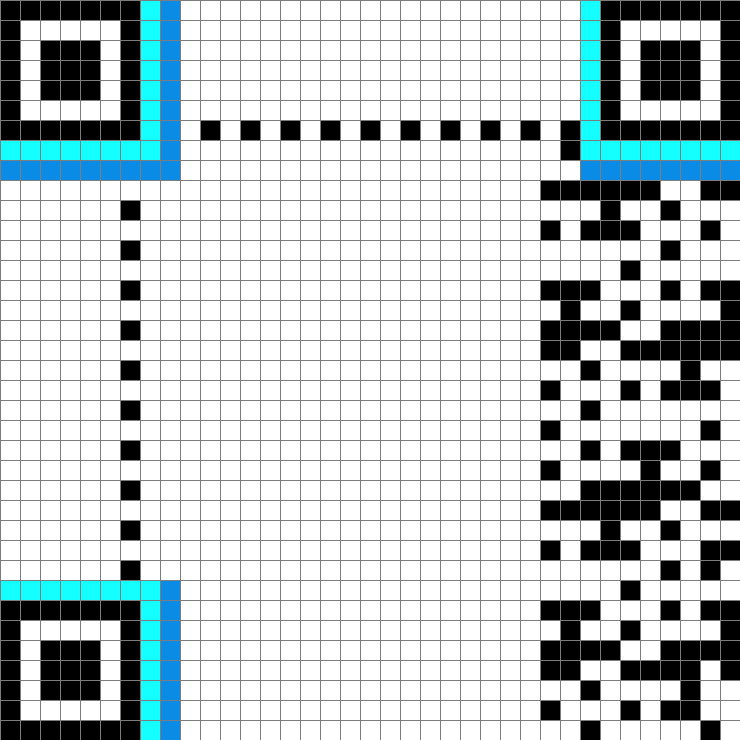
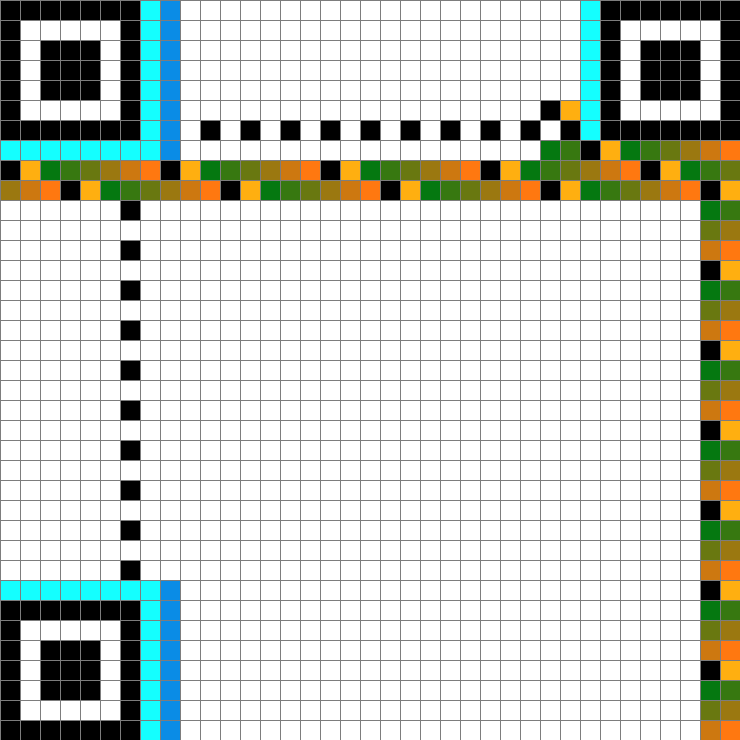
add a debug flag; more reworking of the positioning

Changed region(s): [[0.0, 0.1243, 1.0, 1.0]]

diff --git a/src/qr_encoder/position.rs b/src/qr_encoder/position.rs
@@ -23,7 +23,7 @@ const RIGHT: u8 = LOWER_RIGHT | UPPER_RIGHT;
 enum Direction {
     Left,
     Up,
-    UpRight,    
+    UpRight,
     UpLeft,
     Down,
     DownLeft,
@@ -74,9 +74,38 @@ impl Position {
         }
     }
 
+    fn near_offside(&self, size: usize, prev_area: Position) -> usize {
+        let row_diff = self.rows_from(prev_area.prev_index);
+        match self.off {
+            RIGHT => self.current_index - 1,
+            BOTTOM => {
+                if row_diff == 2 || row_diff == 0 {
+                    self.current_index - size + 1
+                } else {
+                    self.current_index - 1
+                }
+            },
+            TOP => {
+                if row_diff == -2 {
+                    self.current_index + size + 1
+                } else {
+                    self.current_index - 1
+                }
+            },
+            _ => {
+                if row_diff == 2 {
+                    self.current_index - size + 1
+                } else if row_diff == -2 {
+                    self.current_index + size + 1
+                } else {
+                    self.current_index - 1
+                }
+            }
+        }
+    }
+
     fn timing_offside(&self, size: usize, prev_area: Position) -> usize {
         let row_diff = self.rows_from(prev_area.prev_index);
-
         match self.off {
             RIGHT => self.current_index - 1,
             BOTTOM => {
@@ -85,7 +114,8 @@ impl Position {
                 } else {
                     self.current_index - size + 1
                 }
-            }
+            },
+            _ => self.current_index - 1
         }
         // match self.guess_direction(prev_area, size) {
         //     Direction::UpRight => self.current_index - size + 1,
@@ -118,7 +148,7 @@ impl Position {
     fn near_timing(&self, prev_area: Position) -> usize {
         let row_diff = self.rows_from(prev_area.prev_index);
         let col_diff = self.columns_from(prev_area.prev_index);
-        println!("row diff: {}, col diff: {}", row_diff, col_diff);
+        // println!("row diff: {}, col diff: {}", row_diff, col_diff);
 
         if col_diff > 1 || col_diff < -1 {
             self.current_index - 1 // for now
@@ -134,7 +164,7 @@ impl Position {
                     }
                 },
                 _    => panic!("Ruh Roh current")
-            }            
+            }
         }
     }
 
@@ -290,7 +320,7 @@ impl Position {
         } else if self.timing > 0 {
             self.near_timing(prev_area)
         } else if self.off > 0 {
-            self.near_edge(size, prev_area)
+            self.near_offside(size, prev_area)
         } else if self.algn > 0 {
             self.near_alignment(size, prev_area)
         } else if self.msg == 0b0010 {

diff --git a/src/qr_encoder/util.rs b/src/qr_encoder/util.rs
@@ -253,9 +253,9 @@ fn get_ec_level(level: &str) -> ECLevel {
 //         codewords.push(first_part as u8);
 //         codewords.push(second_part as u8);
 //     } else {
-// 
+//
 //     }
-// 
+//
 // }
 
 pub fn args() -> QRConfig {
@@ -275,6 +275,7 @@ pub fn args() -> QRConfig {
     let mut ec_level: ECLevel = ECLevel::Medium;
     let encoding = 4u8;
     let mut arg = qr_args.next();
+    let mut debug_mode = false;
 
     while arg.is_some() {
         let value = arg.unwrap();
@@ -306,6 +307,8 @@ pub fn args() -> QRConfig {
                 },
                 None => ECLevel::Medium
             }
+        } else if value == OsStr::new("-DEBUG") {
+            debug_mode = true;
         }
 
 
@@ -319,6 +322,7 @@ pub fn args() -> QRConfig {
         codeword_properties: codeword_info(version, &ec_level),
         encoding: 4u8,
         encoding_mode: EncodingMode::Byte,
+        debug_mode: debug_mode,
         requires_alignment: version > 1,
         err_correction_level: ec_level,
         size: (((version - 1) * 4) + 21),

diff --git a/src/qr_encoder/qr.rs b/src/qr_encoder/qr.rs
@@ -7,6 +7,7 @@ use qr_encoder::cell::{
 
 use qr_encoder::position::Position;
 use qr_encoder::config::{QRConfig};
+use qr_encoder::util::{set_color};
 
 pub struct QR {
     pub body: Vec<Cell>,
@@ -38,7 +39,7 @@ impl QR {
             (1, -1),
             (-1, -1)
         ];
-    
+
         for i in 0..chunk_length {
             let mut position = Position {
                 free: 0,
@@ -54,8 +55,9 @@ impl QR {
             let current_point: Point = Point::as_point(position.current_index, config.size);
 
             let bit = chunk & (1 << (chunk_length - i) - 1);
-            // let color = set_color(i);
-            let color: Color = if bit == 0 {
+            let color: Color = if config.debug_mode {
+                set_color(i)
+            } else if bit == 0 {
                 Color { r: 255, g: 255, b: 255 }
             } else {
                 Color { r: 0, g: 0, b: 0 }

diff --git a/src/qr_encoder/config.rs b/src/qr_encoder/config.rs
@@ -33,6 +33,7 @@ pub struct QRConfig {
     pub codeword_properties: CodeWord,
     pub encoding: u8, // for now - should be its own sub-type.
     pub encoding_mode: EncodingMode,
+    pub debug_mode: bool,
     pub requires_alignment: bool,
     pub finder_points: [(usize, usize); 3],
     pub size: usize,
@@ -50,7 +51,7 @@ impl BufferState for Buffer {
             Some(*cw)
         } else {
             None
-        }        
+        }
     }
 
     fn err_get(&self, idx: usize) -> Option<u8> {
@@ -60,7 +61,7 @@ impl BufferState for Buffer {
             None
         }
     }
-    
+
 }
 
 
